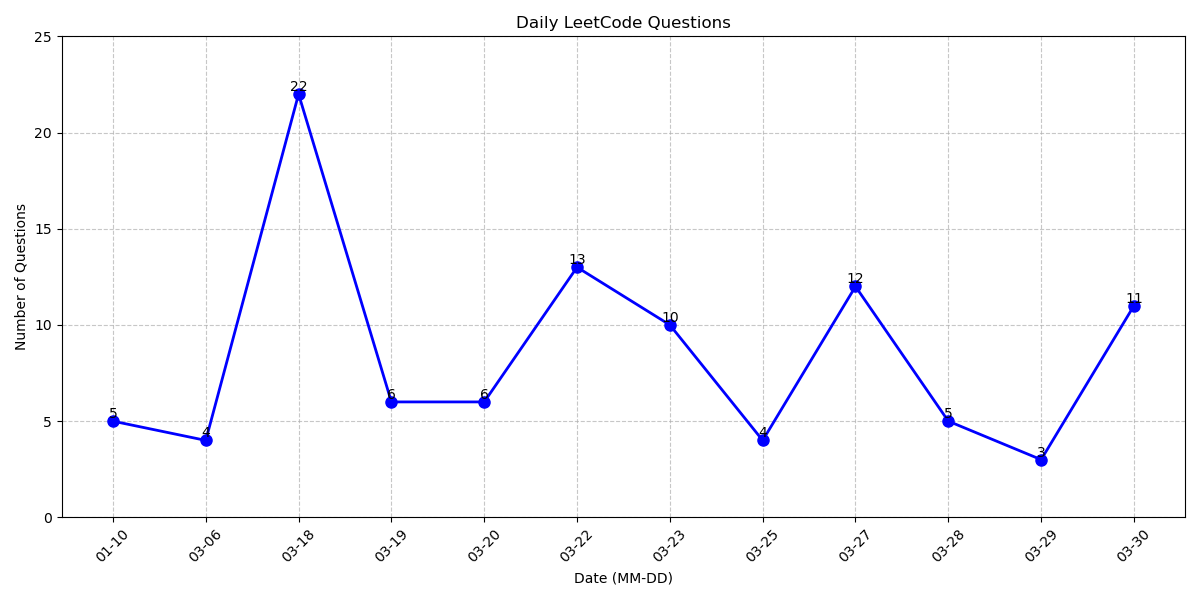
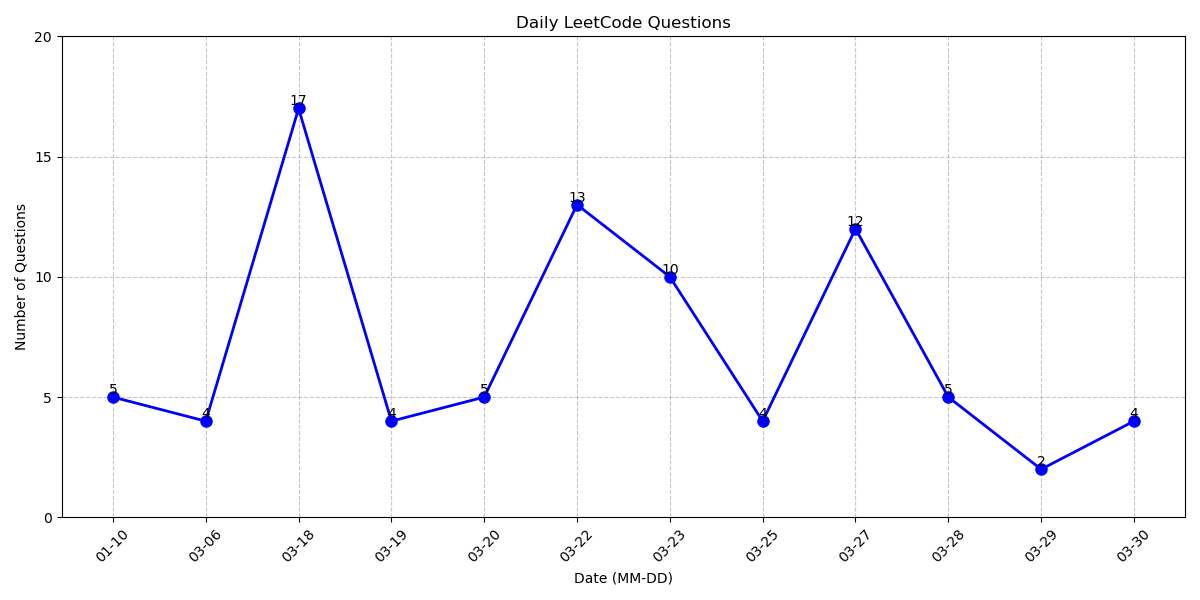
fix update daily question

diff --git a/update_readme.py b/update_readme.py
@@ -81,8 +81,14 @@ def get_daily_commits(root_dir):
     for commit in repo.iter_commits():
         date = datetime.fromtimestamp(commit.committed_date).strftime("%m-%d")
         files = commit.stats.files
-        for file_path in files.keys():
-            if file_path.endswith((".c", ".cpp")):
+
+        for file_path, stats in files.items():
+            # Exclude commits with deleted files and files in "WeekContest" folder
+            if (
+                file_path.endswith((".c", ".cpp"))
+                and not file_path.startswith("WeekContest/")
+                and stats.get("deletions", 0) == 0
+            ):
                 daily_counts[date] += 1
 
     return daily_counts
